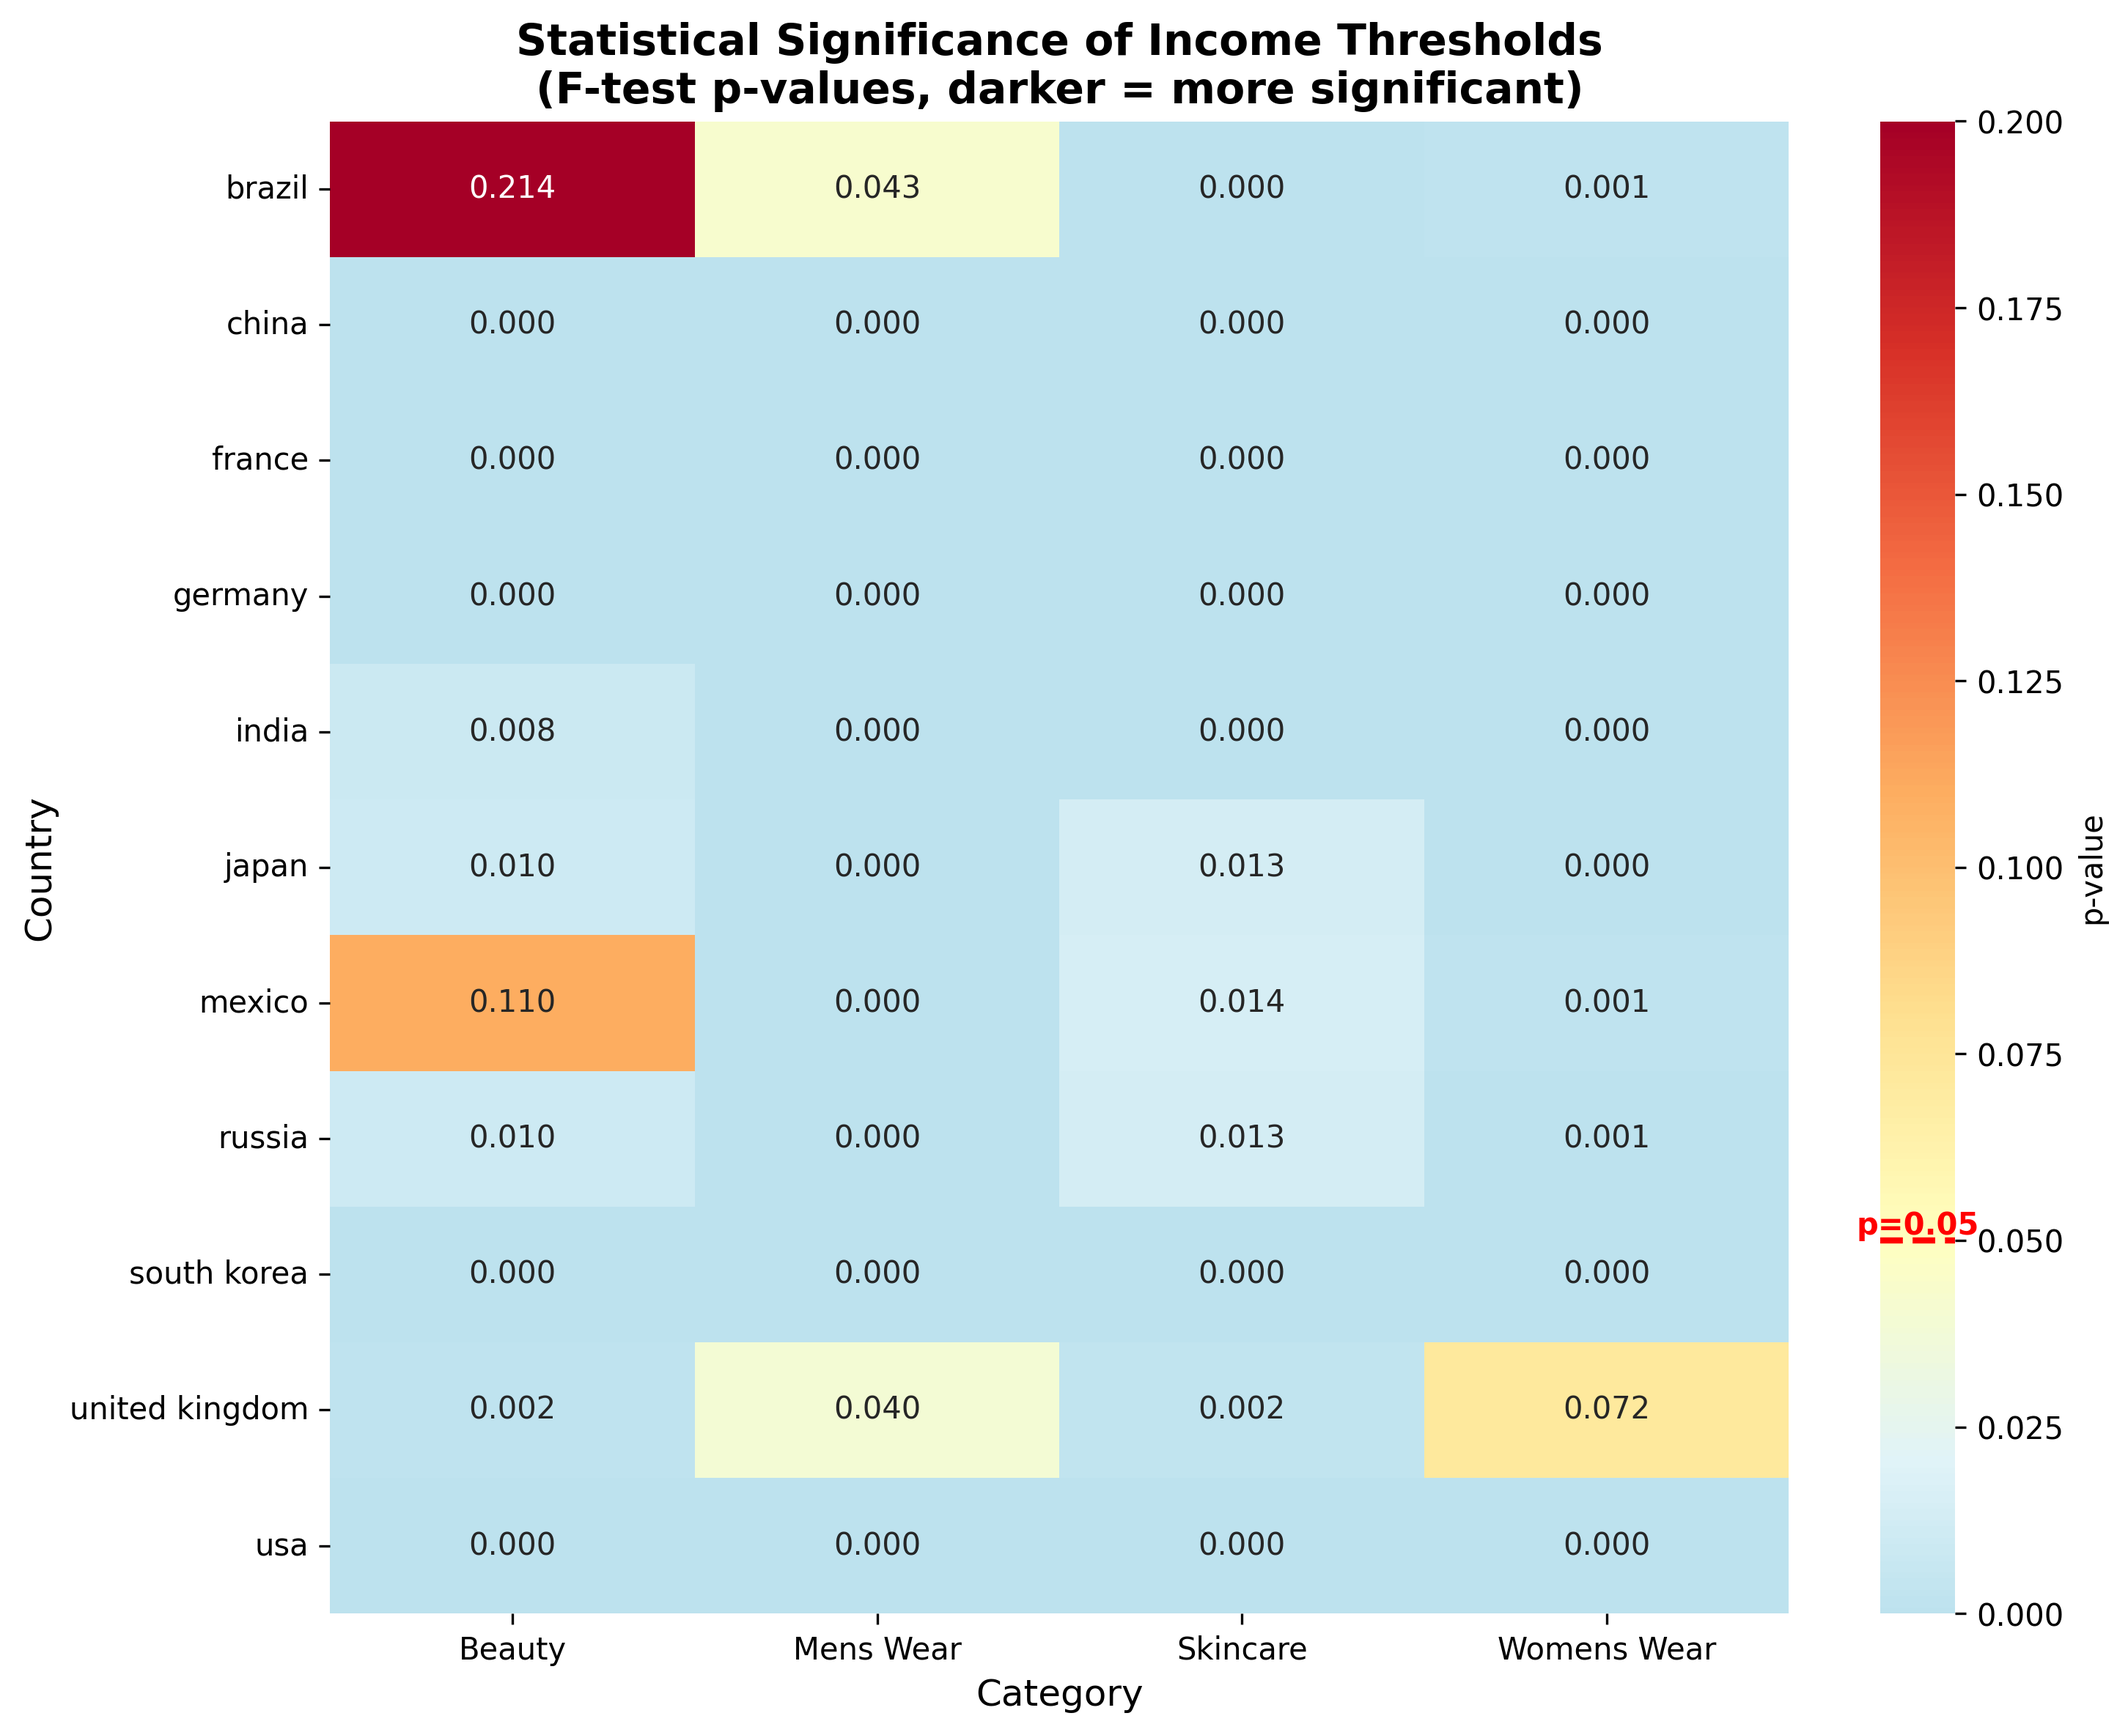
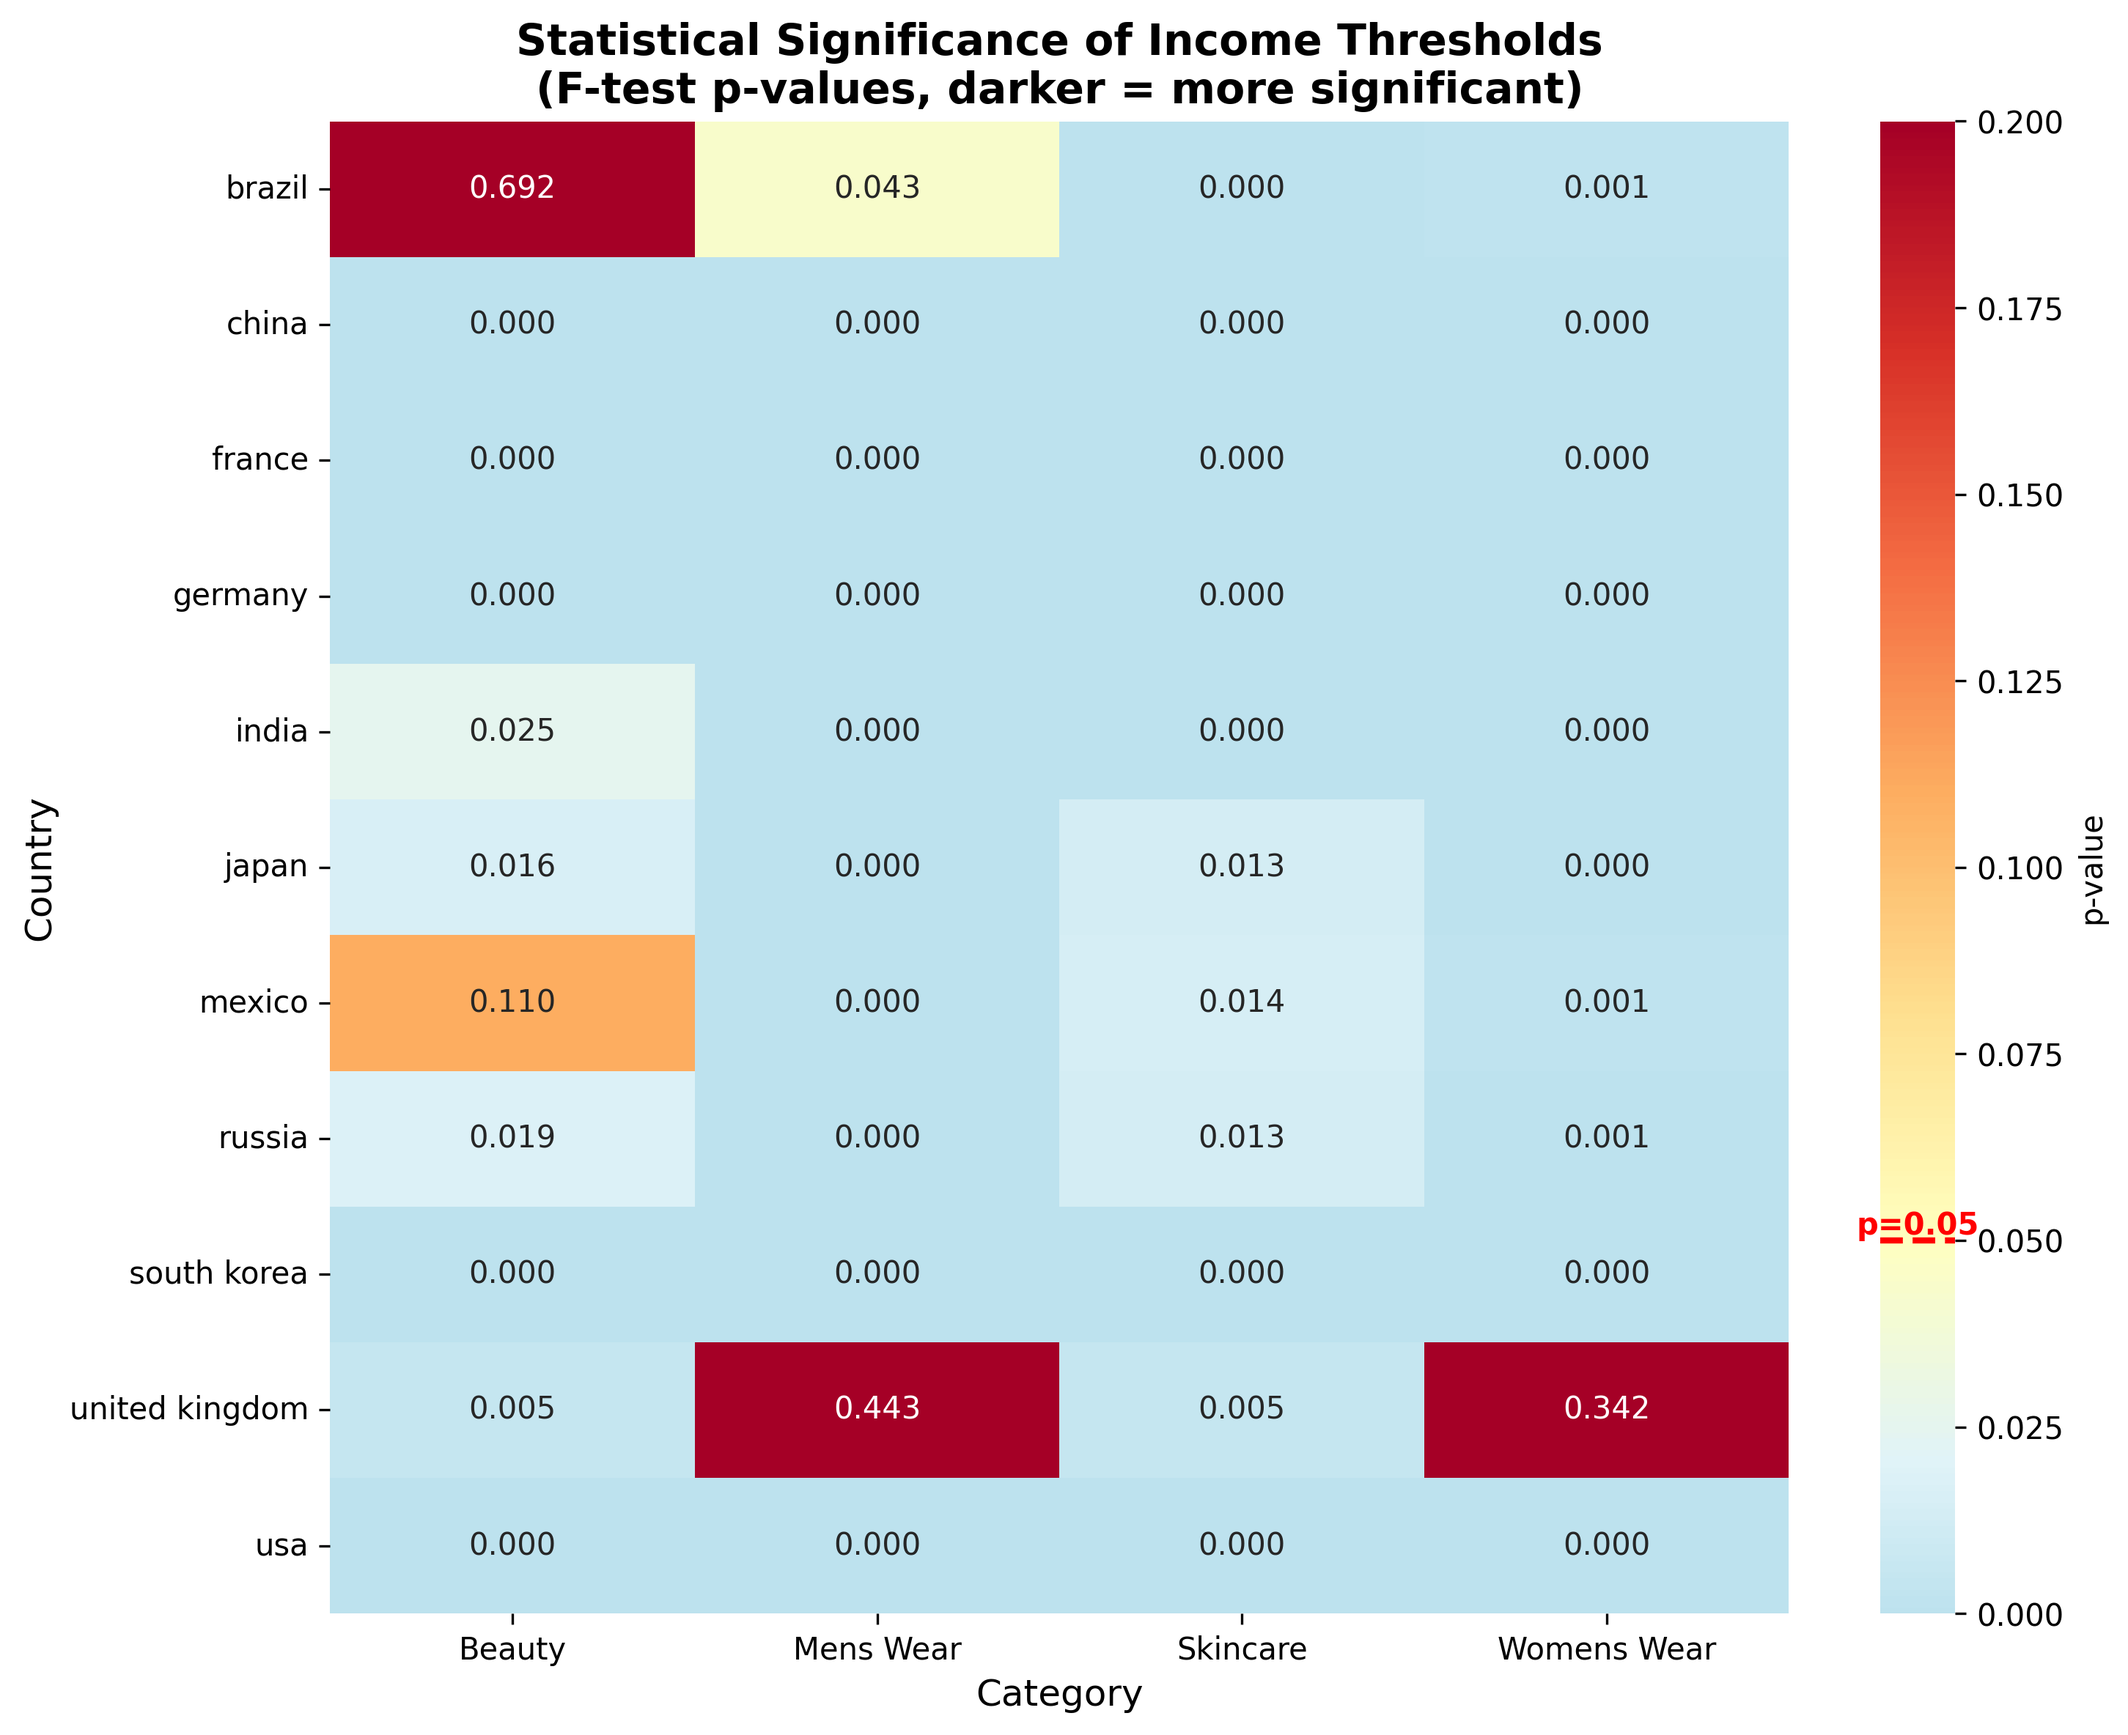
Removed redundant code, other bugs in calculations

Changed region(s): [[0.6511, 0.75, 0.8681, 0.875], [0.31, 0.75, 0.496, 0.875], [0.155, 0.375, 0.341, 0.4688]]

diff --git a/src/scripts/02_task2_comparative_benchmarking.py b/src/scripts/02_task2_comparative_benchmarking.py
@@ -4,9 +4,7 @@ import matplotlib.pyplot as plt
 from pathlib import Path
 import scipy.stats
 import statsmodels.api as sm
-from sklearn.preprocessing import StandardScaler
-from sklearn.cluster import KMeans
-from sklearn.metrics import silhouette_score
+
 
 plt.style.use('default')
 
@@ -593,149 +591,7 @@ def rolling_elasticity_india(df):
     plt.close()
     return rolling_df
 
-def kmeans_clustering(df):
-    """2.5 K-means clustering analysis"""
-    
-    # Prepare data for clustering
-    cluster_data = df[['BeautyPC', 'gdppcppp', 'BeautyShare']].copy()
-    cluster_data = cluster_data.dropna()
-    
-    if len(cluster_data) < 10:
-        return None, None
-    
-    # Standardize features (z-score)
-    scaler = StandardScaler()
-    features_scaled = scaler.fit_transform(cluster_data)
-    # Use 4 clusters as requested for better differentiation
-    optimal_k = 4
-    
-    # Still calculate silhouette score for validation
-    test_kmeans = KMeans(n_clusters=optimal_k, random_state=42, n_init='auto')
-    test_labels = test_kmeans.fit_predict(features_scaled)
-    silhouette_avg = silhouette_score(features_scaled, test_labels)
-    
-    # Final clustering with optimal k
-    final_kmeans = KMeans(n_clusters=optimal_k, random_state=42, n_init='auto')
-    cluster_labels = final_kmeans.fit_predict(features_scaled)
-    
-    # Add cluster labels back to original data
-    df_clustered = df.loc[cluster_data.index].copy()
-    df_clustered['cluster'] = cluster_labels
-    
-    # Track India's cluster over time
-    india_clusters = df_clustered[df_clustered['country'] == 'india'].copy()
-    
-    # Debug: Check if any country changes clusters over time
-    cluster_changes = []
-    for country in df_clustered['country'].unique():
-        country_clusters = df_clustered[df_clustered['country'] == country]['cluster'].unique()
-        if len(country_clusters) > 1:
-            cluster_changes.append(f"{country}: {len(country_clusters)} different clusters")
-    
-    # Countries with cluster changes tracked but not logged
-    
-    # Create beautified T2-5: 2D scatter plot with 4 clusters
-    fig, ax = plt.subplots(figsize=(16, 12))
-    
-    # Enhanced cluster colors and names
-    cluster_colors = ['#3498db', '#e67e22', '#2ecc71', '#e74c3c']  # More vibrant colors
-    cluster_names = ['Developing Markets\\n(Low Income & Spending)', 
-                    'Emerging Markets\\n(Moderate Income & Beauty)', 
-                    'Developed Markets\\n(High Income & Consumption)', 
-                    'Premium Markets\\n(Luxury Consumption)']
-    
-    # Plot cluster points with enhanced styling
-    for cluster_id in range(optimal_k):
-        cluster_data_plot = df_clustered[df_clustered['cluster'] == cluster_id]
-        
-        if len(cluster_data_plot) == 0:
-            continue
-            
-        # Enhanced size scaling based on beauty share
-        sizes = (cluster_data_plot['BeautyShare'] * 150000).fillna(50)  # Better scaling
-        sizes = np.clip(sizes, 50, 300)  # Wider size range for better visibility
-        
-        ax.scatter(cluster_data_plot['gdppcppp'], cluster_data_plot['BeautyPC'],
-                  c=cluster_colors[cluster_id], s=sizes, alpha=0.7, 
-                  label=f'{cluster_names[cluster_id]}', 
-                  edgecolors='white', linewidth=1.5, zorder=3)
-    
-    # Enhanced India trajectory visualization
-    if not india_clusters.empty:
-        # Show India's development path with gradient effect
-        ax.plot(india_clusters['gdppcppp'], india_clusters['BeautyPC'],
-               'o-', color=COUNTRY_COLORS['india'], alpha=0.8, linewidth=4, 
-               markersize=10, markerfacecolor=COUNTRY_COLORS['india'],
-               markeredgecolor='white', markeredgewidth=2,
-               label='India\'s Development Path (1995-2024)', zorder=6)
-        
-        # Enhanced current India position marker
-        latest_india = india_clusters.iloc[-1]
-        ax.scatter(latest_india['gdppcppp'], latest_india['BeautyPC'],
-                  c=COUNTRY_COLORS['india'], s=600, marker='*', 
-                  edgecolor='darkred', linewidth=3,
-                  label='India Current Position (2024)', zorder=10)
-        
-        # Add annotation for India's current position
-        ax.annotate('India Today', 
-                   xy=(latest_india['gdppcppp'], latest_india['BeautyPC']),
-                   xytext=(15, 15), textcoords='offset points',
-                   fontsize=12, fontweight='bold',
-                   bbox=dict(boxstyle='round,pad=0.5', facecolor='white', 
-                            edgecolor=COUNTRY_COLORS['india'], alpha=0.9),
-                   arrowprops=dict(arrowstyle='->', color=COUNTRY_COLORS['india'], lw=2))
-    
-    # Enhanced styling and labels
-    ax.set_xlabel('GDP per Capita PPP (2021 International $)', 
-                 fontsize=14, fontweight='bold')
-    ax.set_ylabel('Beauty Consumption per Capita (USD 2015)', 
-                 fontsize=14, fontweight='bold')
-    ax.set_title('Global Beauty Consumption Clusters\\n' +
-                'India\'s Position in the Global Market', 
-                fontsize=16, fontweight='bold', pad=25)
-    
-    # Enhanced legend positioned inside the plot area
-    legend = ax.legend(loc='upper right', fontsize=10, framealpha=0.95, 
-                      edgecolor='gray', fancybox=True, shadow=True)
-    legend.get_frame().set_facecolor('white')
-    
-    # Enhanced grid and styling
-    ax.grid(True, alpha=0.3, linestyle='-', linewidth=0.5)
-    ax.set_axisbelow(True)
-    
-    # Style the axes
-    ax.spines['top'].set_visible(False)
-    ax.spines['right'].set_visible(False)
-    ax.spines['left'].set_linewidth(1.5)
-    ax.spines['bottom'].set_linewidth(1.5)
-    
-    # Format axis ticks
-    ax.tick_params(axis='both', which='major', labelsize=12)
-    
-    # Add subtle background
-    ax.set_facecolor('#fafafa')
-    
-    plt.tight_layout()
-    plt.savefig("figures/T2-5_kmeans_scatter.png", dpi=300, bbox_inches='tight',
-                facecolor='white', edgecolor='none')
-    plt.close()
-    
-    # Create T2-6: India's cluster over time (only if it actually changes)
-    if not india_clusters.empty and len(india_clusters['cluster'].unique()) > 1:
-        plt.figure(figsize=(10, 6))
-        plt.step(india_clusters['year'], india_clusters['cluster'], 
-                where='post', linewidth=2, marker='o', markersize=6)
-        plt.xlabel('Year')
-        plt.ylabel('Cluster ID')
-        plt.title("India's Cluster Assignment Over Time")
-        plt.grid(True, alpha=0.3)
-        plt.ylim(-0.5, optimal_k - 0.5)
-        plt.tight_layout()
-        plt.savefig("figures/T2-6_india_cluster_timeline.png", dpi=300, bbox_inches='tight')
-        plt.close()
-    # India cluster timeline chart created or skipped based on cluster changes
-    
-    return df_clustered, india_clusters
+
 
 def test_india_growth_acceleration(df):
     """Test for India's growth acceleration using t-test"""
@@ -874,8 +730,8 @@ def main():
     # 2.4 Rolling elasticity for India
     rolling_df = rolling_elasticity_india(df)
     
-    # 2.5 K-means clustering
-    df_clustered, india_clusters = kmeans_clustering(df)
+    # 2.5 K-means clustering (removed as dead code)
+    df_clustered, india_clusters = None, None
     
     # Growth acceleration test for India
     growth_test = test_india_growth_acceleration(df)

diff --git a/src/scripts/03_task3_hypothesis_testing.py b/src/scripts/03_task3_hypothesis_testing.py
@@ -55,9 +55,6 @@ def log_log_elasticity(x, y, country_name, series_name):
     except Exception:
         return {'beta': np.nan, 'se': np.nan, 'pvalue': np.nan, 'n_obs': mask.sum(),
                 'intercept': np.nan, 'intercept_se': np.nan, 'intercept_ci': (np.nan, np.nan)}
-    except:
-        return {'beta': np.nan, 'se': np.nan, 'pvalue': np.nan, 'n_obs': n,
-                'intercept': np.nan, 'intercept_se': np.nan, 'intercept_ci': (np.nan, np.nan)}
 
 def piecewise_regression(x, y, country_name, series_name):
     """
@@ -91,7 +88,7 @@ def piecewise_regression(x, y, country_name, series_name):
         mask2 = x_clean > c
         
         # Need minimum observations in each segment
-        if mask1.sum() < 3 or mask2.sum() < 3:
+        if mask1.sum() < 10 or mask2.sum() < 10 or mask1.sum() < 0.2 * n or mask2.sum() < 0.2 * n:
             continue
         
         try:
